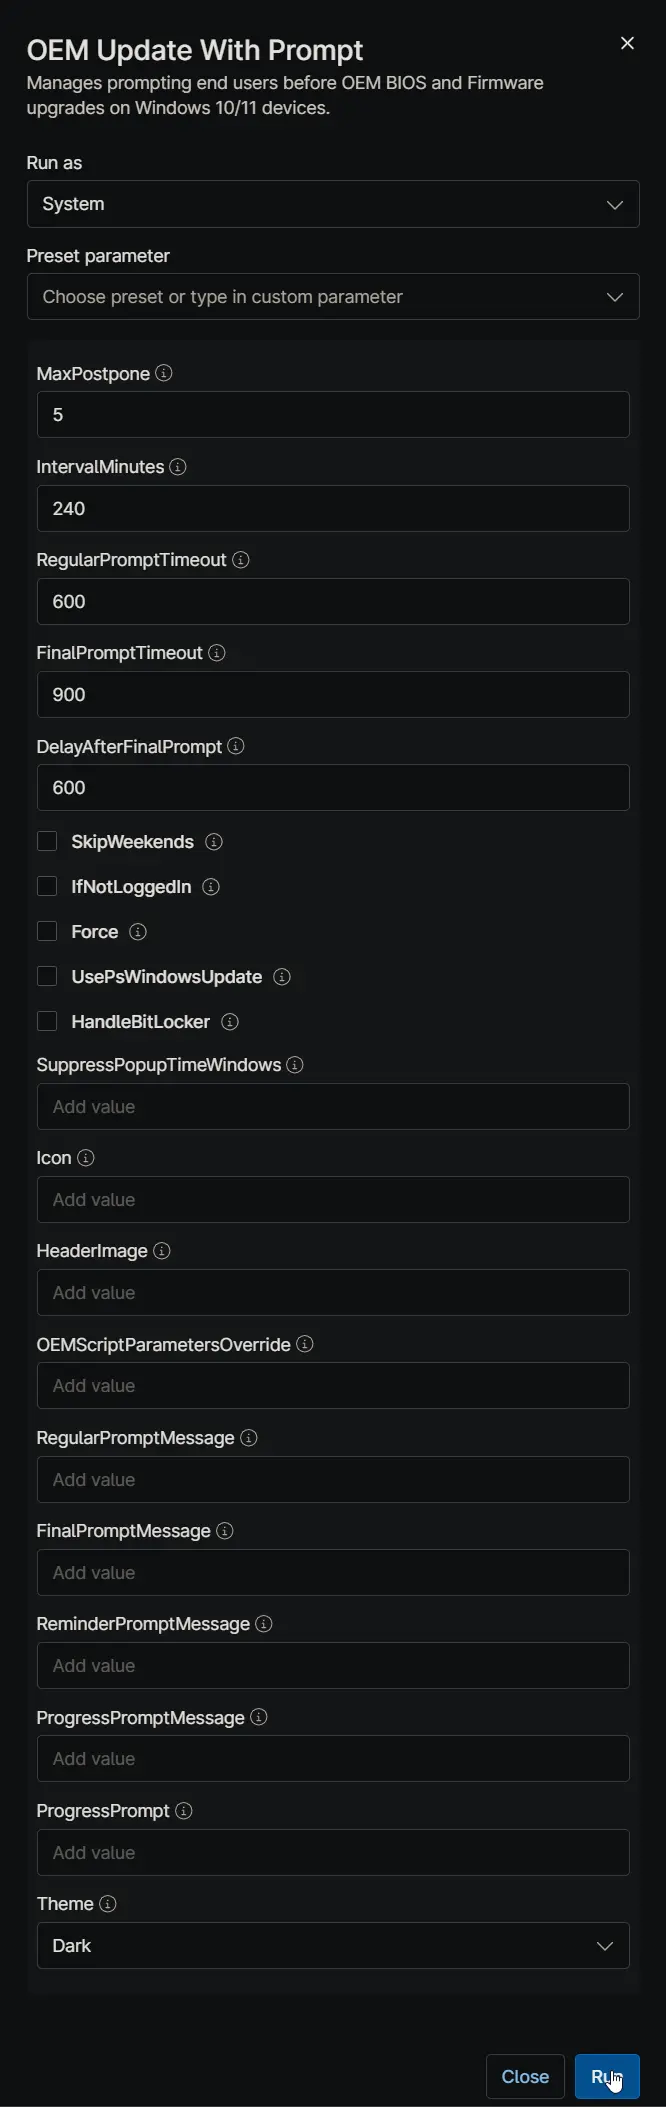
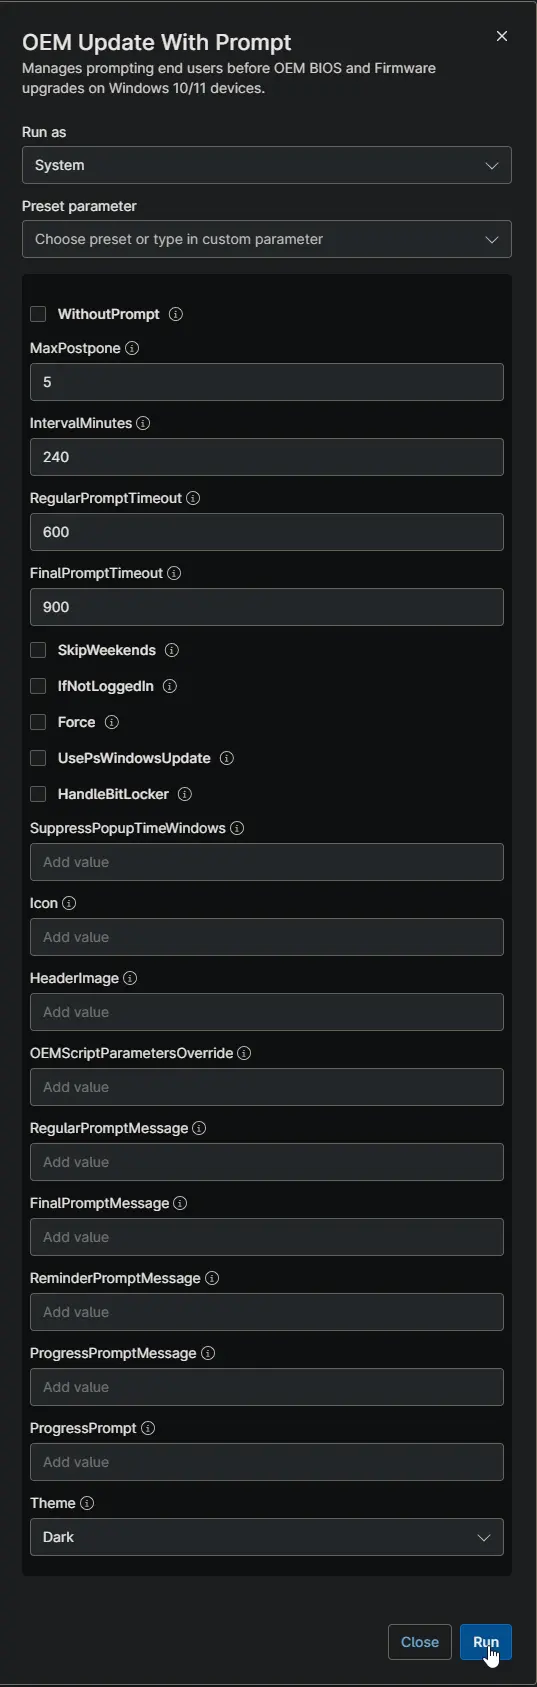
OEM Update With Prompt
- Added `-WithoutPrompt` to run the OEM update immediately with no prompts at all. It overrides every prompt, suppression, and scheduling setting, cancels any prompt cycle already in progress on the device, and runs the update directly inside the RMM job instead of from a scheduled task.

diff --git a/docs/powershell/invoke-oemupdatewithprompt.md b/docs/powershell/invoke-oemupdatewithprompt.md
@@ -9,7 +9,7 @@ tags: ['windows', 'dell', 'lenovo', 'hp', 'notifications', 'drivers', 'bios', 'f
 draft: false
 unlisted: false
 last_update:
-  date: 2026-09-24
+  date: 2026-10-01
 ---
 
 ## Overview
@@ -17,6 +17,8 @@ last_update:
 Safely deploy OEM BIOS and firmware updates without interrupting user workflows. This script prompts end users to schedule or postpone updates, preventing unexpected restarts and data loss.
 
 Designed for RMM platforms, it requires only a single deployment. The script automatically handles the prompt cycle, language localization (English/Dutch), and forced reboots via self-managing Windows Scheduled Tasks.
+
+Need a device updated right away instead? `-WithoutPrompt` skips the prompts entirely and runs the update immediately. See [Update Without Prompting](#update-without-prompting).
 
 Every prompt title and message can be replaced with your own wording, and the window can be switched between a dark and light theme. See [Customize the Prompt Text](#customize-the-prompt-text).
 
@@ -48,6 +50,7 @@ Understand how the script behaves in production before adding it to your RMM pol
 
 * **Single Deployment:** Run this script once per device via your RMM. It creates background scheduled tasks to handle all subsequent prompts, postponements, and the final update.
 * **Forced Reboots:** Firmware and BIOS updates require restarts. Once the user's scheduled time arrives (or postponements run out), the device will install the updates and **forcefully reboot**.
+* **Updating Right Away:** Use `-WithoutPrompt` when a device needs updating now with no user interaction. It overrides every other prompt and scheduling setting, cancels any prompt cycle already in progress, and runs the update inside the RMM job itself — so set your RMM script timeout long enough to cover the whole update.
 * **Silent Installs:** The update itself runs invisibly and can take a while. Add `-ShowProgressPrompt` for a periodic heads-up on the user's desktop, or `-KeepProgressPromptVisible` to keep a notice on screen until the update finishes. Both are off by default.
 * **BitLocker Protection:** Always use `-HandleBitLocker` on encrypted devices. This prevents the dreaded BitLocker recovery screen after a firmware update.
 * **User Presence:** By default, prompts only show when a user is actively logged in and unlocked. Use `-IfNotLoggedIn` to push updates to unattended machines, or `-MaxMissedPromptsBeforeForce` to force updates on devices that stay locked for too long.
@@ -94,6 +97,12 @@ Understand how the script behaves in production before adding it to your RMM pol
 
 ```powershell
 .\Invoke-OEMUpdateWithPrompt.ps1 -Force
+```
+
+**Update immediately without any prompts:**
+
+```powershell
+.\Invoke-OEMUpdateWithPrompt.ps1 -WithoutPrompt -HandleBitLocker
 ```
 
 **Keep the user informed while the update installs:**
@@ -148,6 +157,19 @@ If `-SkipWeekends` and `-SuppressPopupTimeWindows '1800-0900'` are used:
 
 - Prompts are hidden on weekends and between 6 PM and 9 AM.
 - If `-IfNotLoggedIn` is added, the script will silently install updates and reboot the machine if no user is logged in during allowed hours.
+
+### Update Without Prompting
+
+With `-WithoutPrompt`, the prompt cycle is skipped entirely:
+
+1. Any prompt cycle already running on the device is cancelled: open prompts are closed, its scheduled tasks are removed, and the postponement history is reset. `-Force` is not needed.
+2. The update starts immediately and runs inside the RMM job itself, not from a scheduled task.
+3. No prompt of any kind is shown — no regular, final, reminder, in-progress, or completion prompt.
+4. If the update needs a restart, the device reboots and the RMM job ends with it.
+
+`-WithoutPrompt` overrides every prompt, suppression, and scheduling parameter, including `-MaxPostpone`, `-SkipWeekends`, `-SuppressPopupTimeWindows`, and `-IfNotLoggedIn`. Only the parameters that shape the update itself still apply: `-UsePsWindowsUpdate`, `-HandleBitLocker`, and `-OEMScriptParametersOverride`.
+
+*Note: Because the update runs inside the RMM job, make sure the RMM script timeout covers the whole vendor update. Setting `-MaxPostpone 0` is not the same thing — it still shows the final scheduling prompt.*
 
 ## Customize the Prompt Text
 
@@ -321,6 +343,7 @@ On `WKS-014`, with two prompts remaining and a four-hour interval, the user sees
 | `MaxMissedPromptsBeforeForce`| `MaxMissed` | `0` | Forces the update after this many consecutive missed prompts on locked devices. |
 | `UpdateDuringSuppress` | `ForceDuringSuppress`| `False` | Allows forced/unattended updates to bypass suppression windows and weekends. |
 | `Force` | `Recreate` | `False` | Clears active tasks and restarts the prompt cycle from zero. |
+| `WithoutPrompt` | `NoPrompt` | `False` | Skips every prompt and runs the update immediately, cancelling any prompt cycle in progress. Overrides all prompt, suppression, and scheduling parameters. |
 | `UsePsWindowsUpdate` | `WindowsUpdate` | `False` | Uses generic Windows updates instead of OEM-specific vendor tools. |
 | `Icon` | `IconUrl`, `IconPath` | | Web URL, local, or UNC path for the prompt window icon. Copied locally and verified before use. |
 | `HeaderImage` | `HeaderUrl`, `HeaderPath` | | Web URL, local, or UNC path for the prompt window header banner. Copied locally and verified before use. |
@@ -349,7 +372,7 @@ On `WKS-014`, with two prompts remaining and a four-hour interval, the user sees
 
 Logs are automatically generated in the script's working directory.
 
-- **Initial RMM Run:** `C:\Windows\Temp\Invoke-OEMUpdateWithPrompt-log.txt` (or your RMM's temp folder).
+- **Initial RMM Run:** `C:\Windows\Temp\Invoke-OEMUpdateWithPrompt-log.txt` (or your RMM's temp folder). A `-WithoutPrompt` run always logs here.
 - **Scheduled Runs:** `C:\ProgramData\_Automation\Script\Invoke-OEMUpdatePrompt\Invoke-OEMUpdateWithPrompt-log.txt`
 - **OEM Update Runner:** `C:\ProgramData\_Automation\Script\Install-OEMUpdates\Install-OEMUpdates-log.txt`, with `Install-OEMUpdates-stdout.txt` and `Install-OEMUpdates-stderr.txt` capturing the vendor process output.
 - **Vendor Update Logs:** Stored in `C:\ProgramData\_Automation\Script\<VendorName>\` (e.g., `Initialize-DellCommandUpdate-log.txt`).
@@ -360,6 +383,8 @@ Logs are automatically generated in the script's working directory.
 - `Scheduled_Task_Invoke-OEMUpdatePrompt_Reschedule` (Manages the background cycle)
 - `Scheduled_Task_Invoke-OEMUpdatePrompt_Reminder` (Displays the 10-minute warning)
 - `Scheduled_Task_Invoke-OEMUpdatePrompt_Progress` (Displays the in-progress notice; created only while the update runs and removed as soon as it finishes)
+
+A `-WithoutPrompt` run creates none of these tasks and removes any left over from an earlier prompt cycle.
 
 ### Sample Prompts - English
 
@@ -399,6 +424,10 @@ Logs are automatically generated in the script's working directory.
 ![Image14](../../static/img/docs/52c50165-38d5-4793-b751-97260ab31f72/image14.webp)  
 
 ## Changelog
+
+### 2026-10-01
+
+- Added `-WithoutPrompt` to run the OEM update immediately with no prompts at all. It overrides every prompt, suppression, and scheduling setting, cancels any prompt cycle already in progress on the device, and runs the update directly inside the RMM job instead of from a scheduled task.
 
 ### 2026-09-24
 
